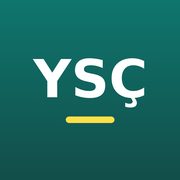
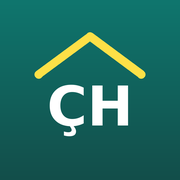
Add files via upload

Changed region(s): [[0.1667, 0.1667, 0.8056, 0.7778]]

diff --git a/index.html b/index.html
@@ -3,7 +3,7 @@
 <head>
 <meta charset="utf-8">
 <meta name="viewport" content="width=device-width, initial-scale=1, viewport-fit=cover">
-<title>YSÇ ERP</title>
+<title>Çolak Hane</title>
 <meta name="theme-color" content="#0F766E">
 <meta name="robots" content="noindex, nofollow">
 <link rel="manifest" href="manifest.webmanifest">
@@ -11,7 +11,7 @@
 <link rel="apple-touch-icon" href="apple-touch-icon.png">
 <meta name="apple-mobile-web-app-capable" content="yes">
 <meta name="mobile-web-app-capable" content="yes">
-<meta name="apple-mobile-web-app-title" content="YSÇ ERP">
+<meta name="apple-mobile-web-app-title" content="Çolak Hane">
 <meta name="apple-mobile-web-app-status-bar-style" content="black-translucent">
 <style>
   :root {
@@ -140,7 +140,7 @@
 <div id="pinEkran">
   <div class="pin-kutu" id="pinKutu">
     <img src="icon-192.png" alt="">
-    <h1 id="pinBaslik">YSÇ ERP</h1>
+    <h1 id="pinBaslik">Çolak Hane</h1>
     <p>PIN girin</p>
     <div class="noktalar" id="noktalar"></div>
     <div id="pinMesaj"></div>
@@ -151,7 +151,7 @@
 <!-- Ana uygulama -->
 <div id="uygulama" class="gizli">
   <nav id="menu">
-    <div class="menu-bas"><img src="icon-192.png" alt=""><b id="menuBaslik">YSÇ ERP</b></div>
+    <div class="menu-bas"><img src="icon-192.png" alt=""><b id="menuBaslik">Çolak Hane</b></div>
     <div id="menuListe"></div>
     <div class="menu-alt">
       <button id="listeYenile" title="Uygulama listesini yenile">↻ Liste</button>
@@ -181,9 +181,9 @@
 
   /* ── Ayarlar ── Her yeni arka uç dağıtımında API_URL güncellenir. */
   var API_URL = 'https://script.google.com/macros/s/AKfycbxfRoqBXTvw8YRfdiGDdBVLtgfQVj1gUKObuhGxUL78b7L1QAN3K6lmNH2I7u6ybdiHRg/exec';
-  var UYGULAMA_ADI = 'YSÇ ERP';
+  var UYGULAMA_ADI = 'Çolak Hane';
   var PIN_UZUNLUK_MIN = 4, PIN_UZUNLUK_MAX = 12;
-  var ANAHTAR = 'yscerp_token';
+  var ANAHTAR = 'colakhane_token';
 
   var durum = { token: '', uygulamalar: [], sekmeler: [], etkin: null };
   var $ = function (id) { return document.getElementById(id); };

diff --git a/sw.js b/sw.js
@@ -1,6 +1,6 @@
-/* YSÇ ERP — service worker
+/* Çolak Hane — service worker
  * Her güncellemede SURUM artırılır; eski önbellek silinir. */
-var SURUM = 'yscerp-v3';
+var SURUM = 'colakhane-v1';
 var KABUK = ['./', './index.html', './manifest.webmanifest',
   './icon-192.png', './icon-512.png', './apple-touch-icon.png'];
 
